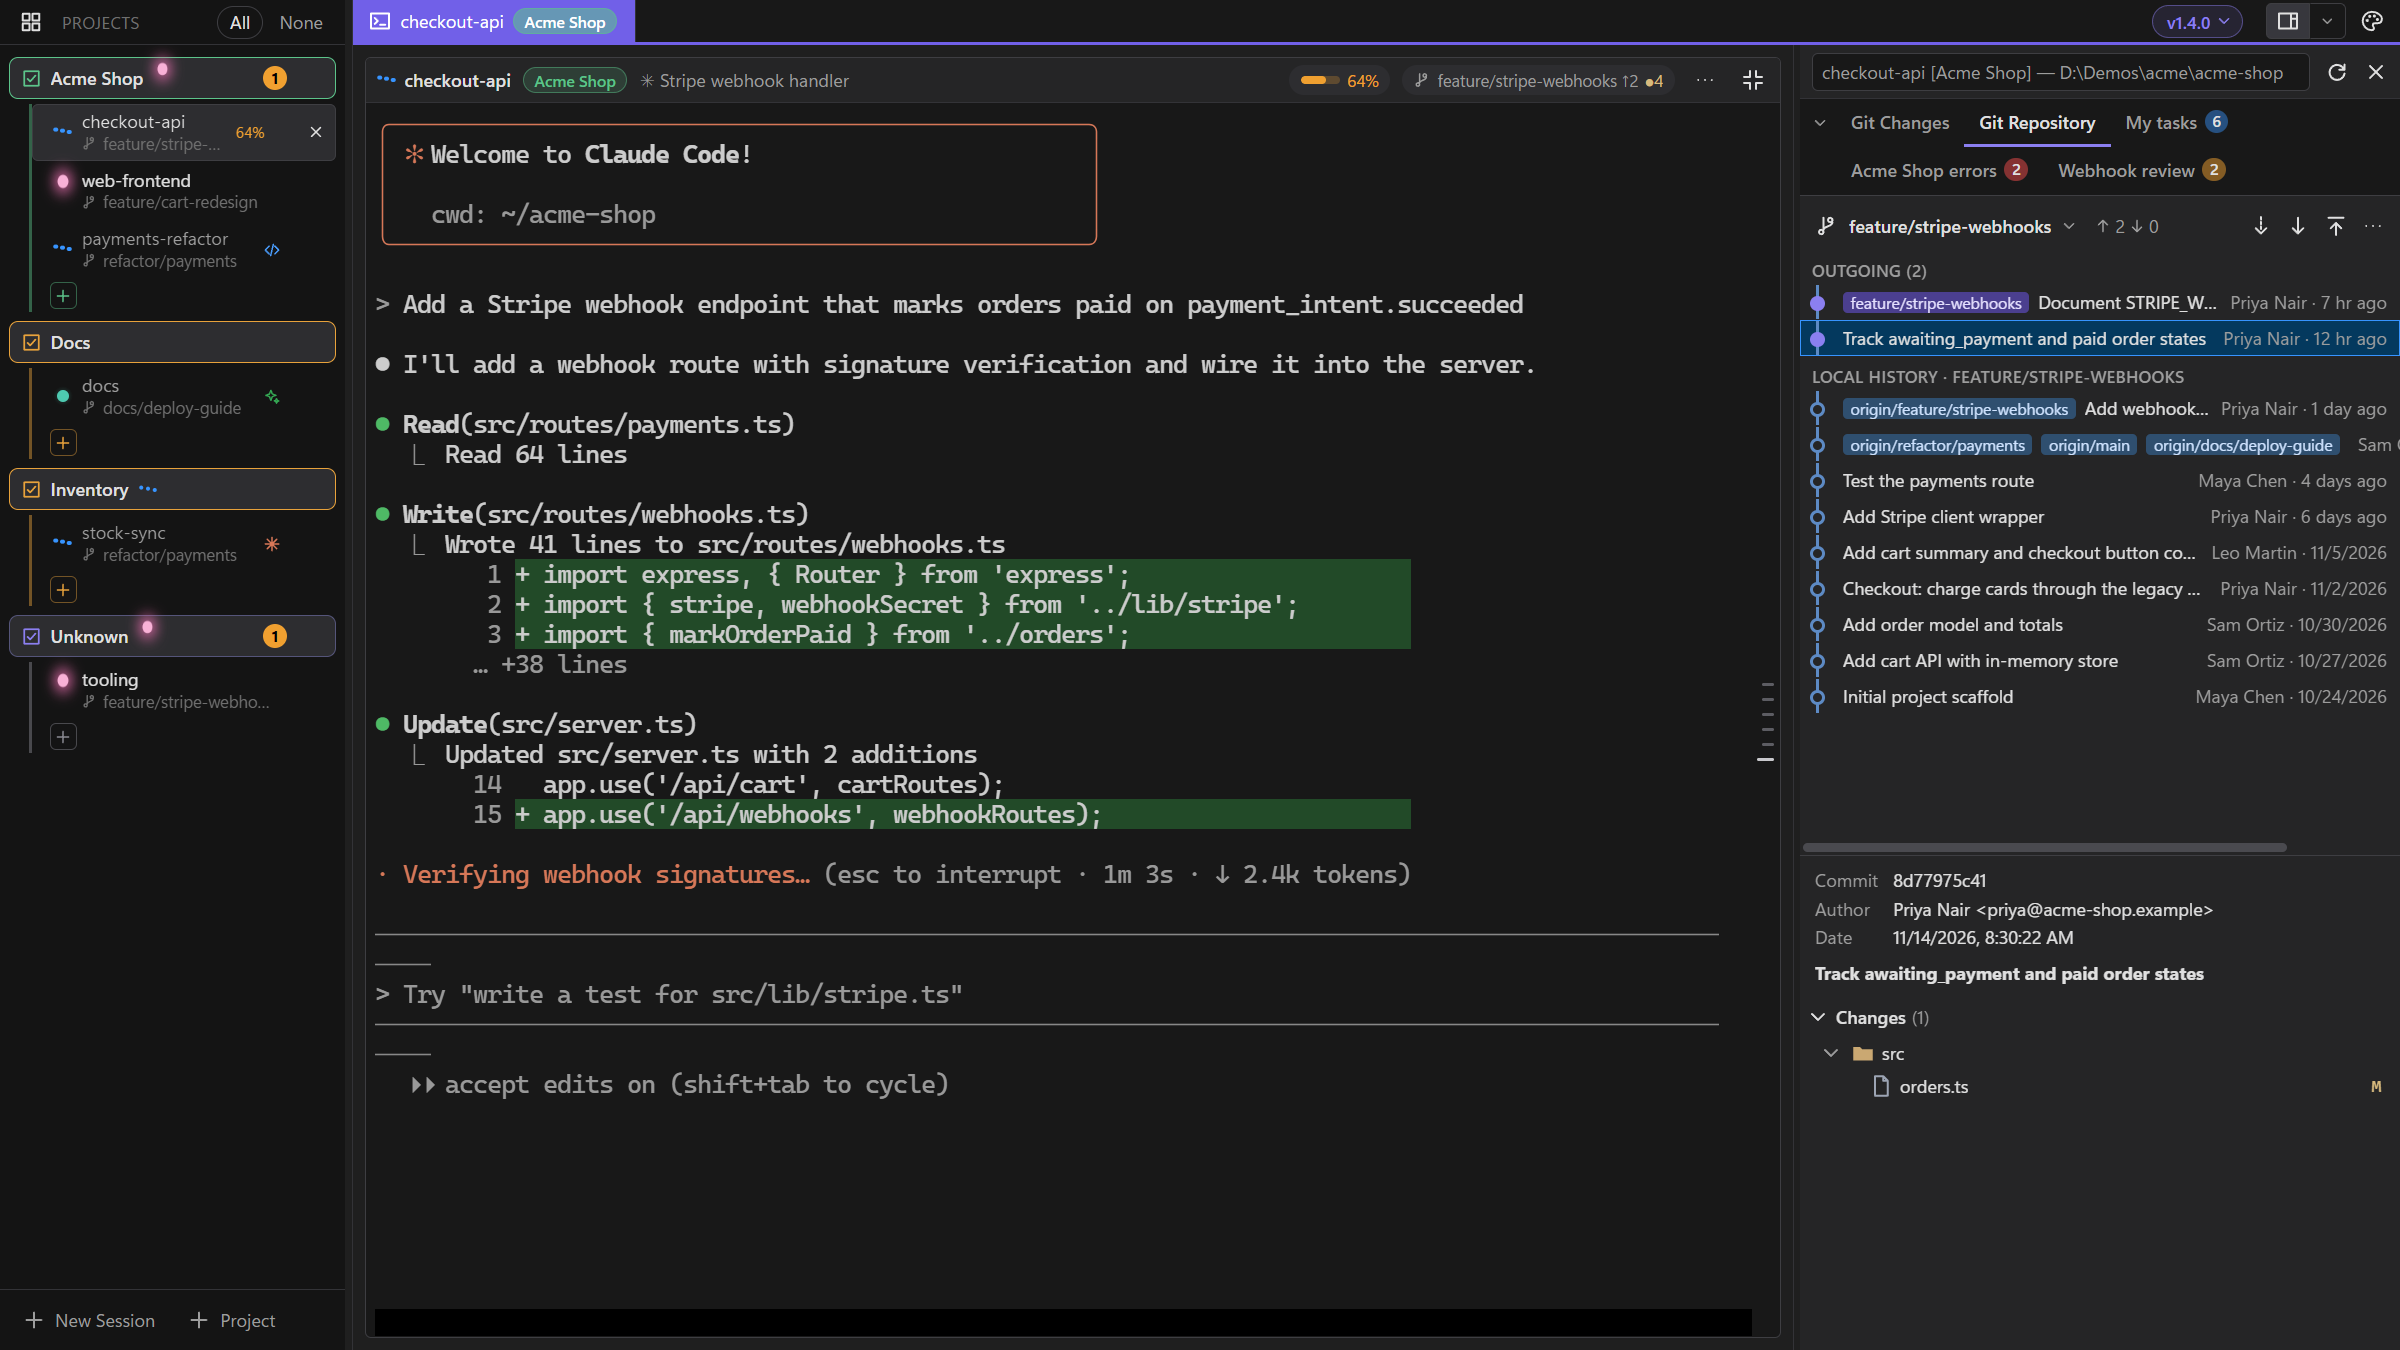
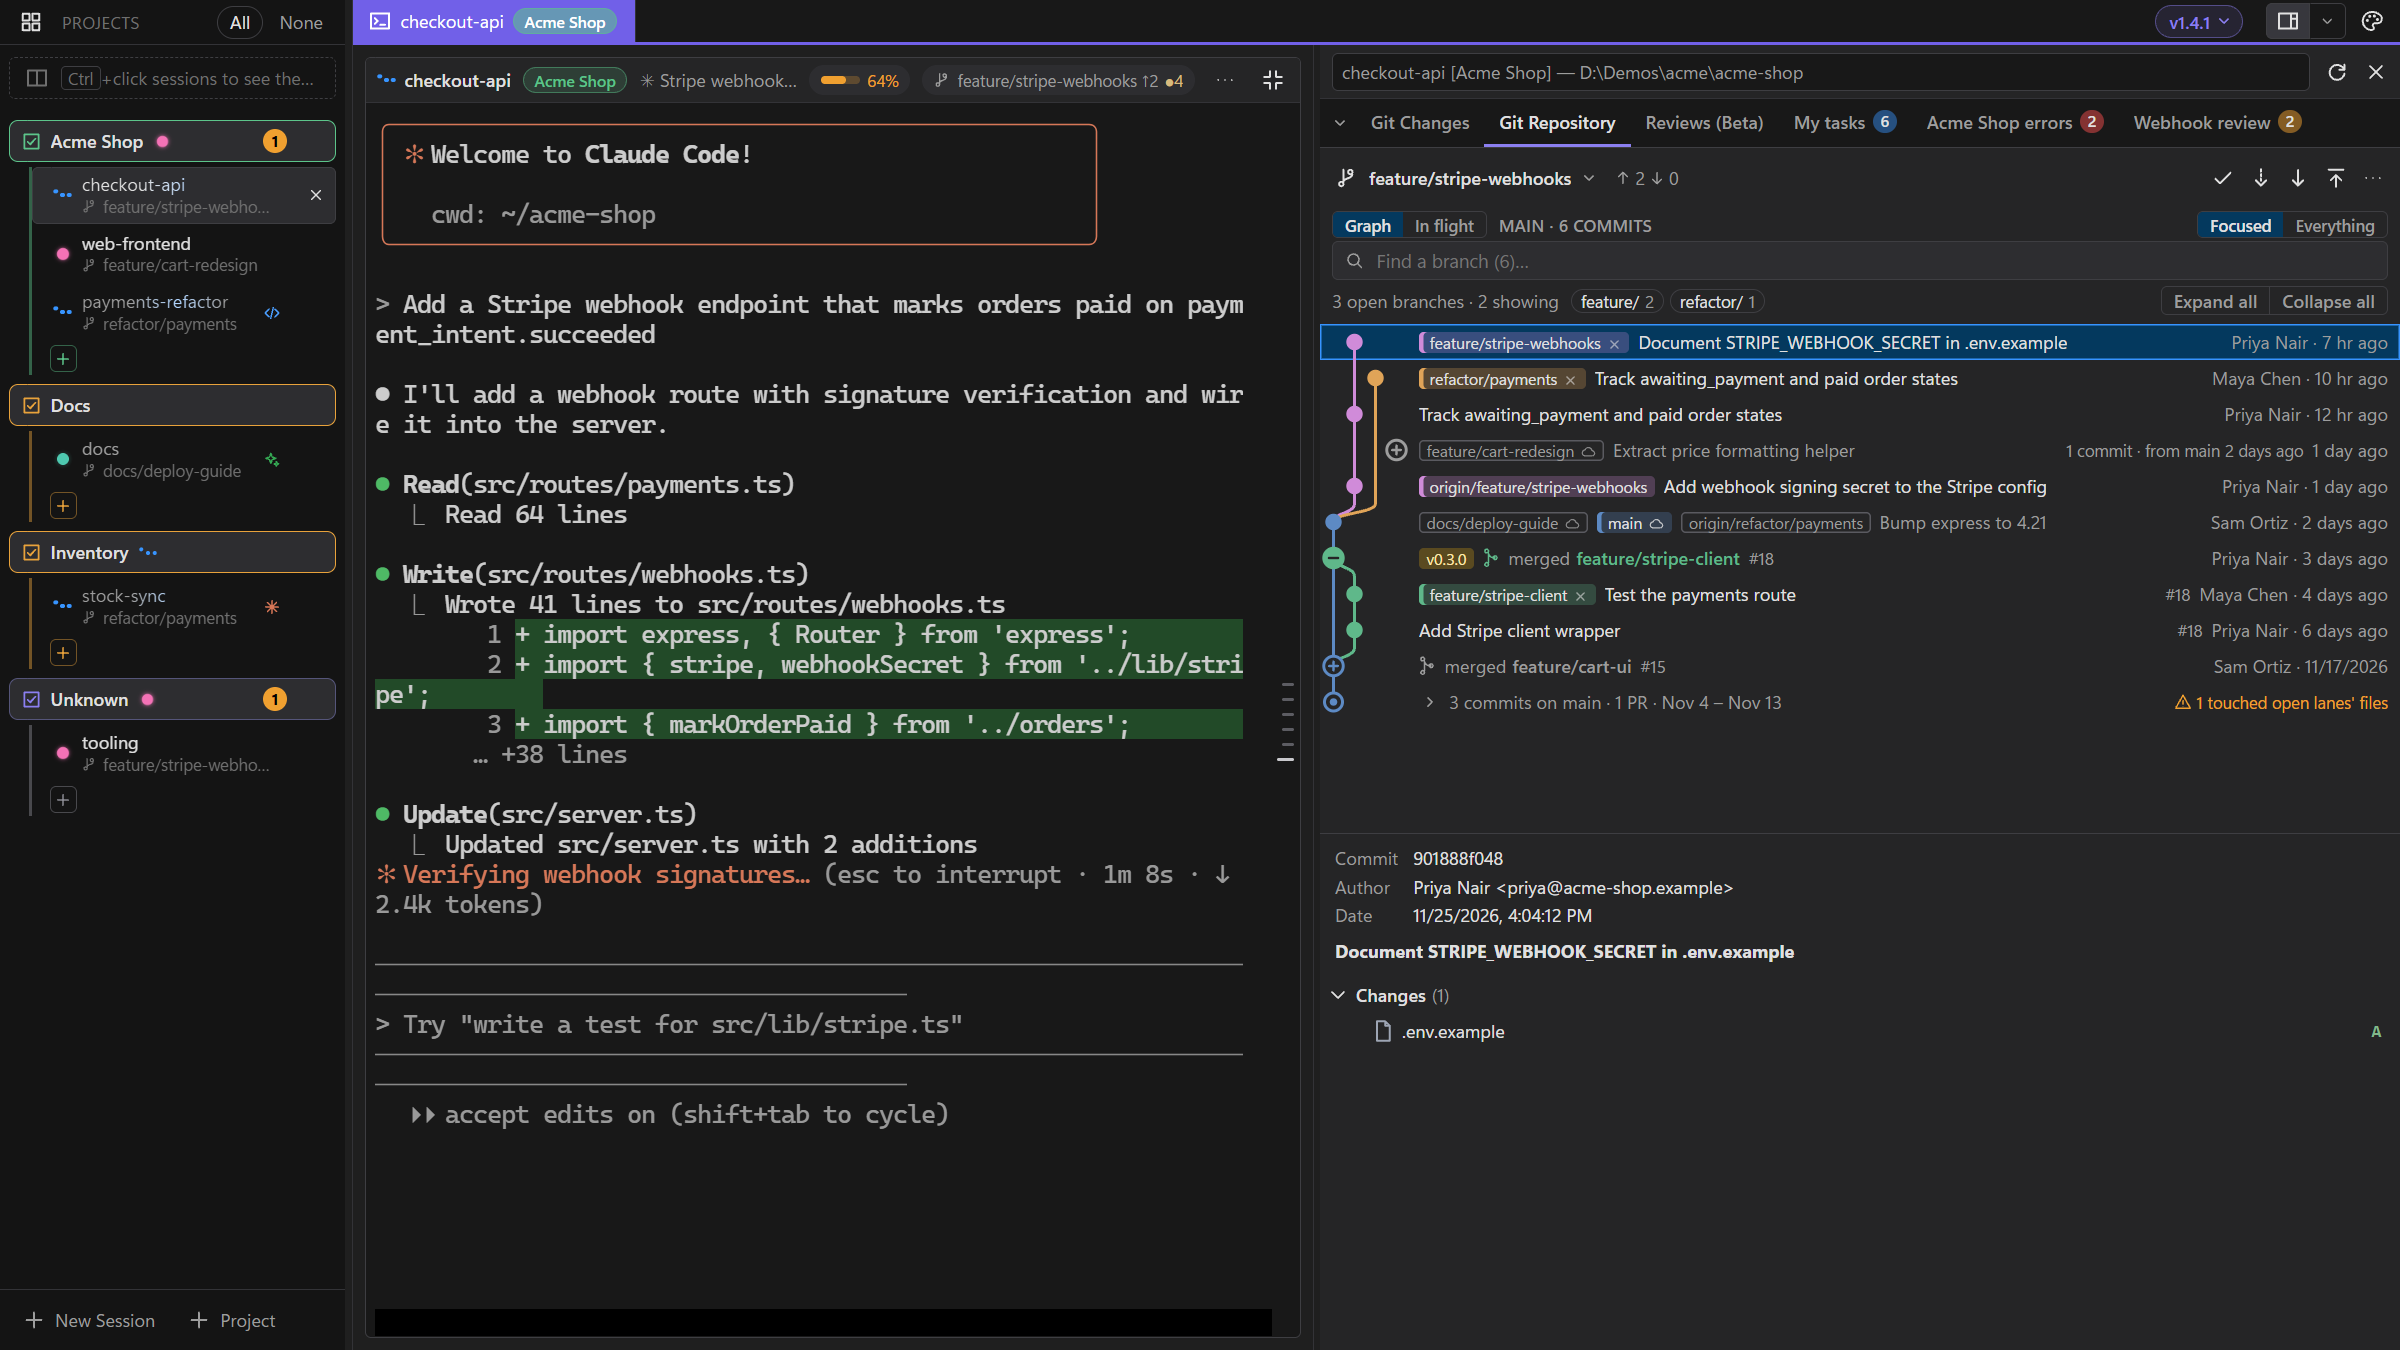
Docs: the Focused graph's screenshot, and In flight
- A new history.png of the Focused graph, and in-flight.png, from the
  screenshot script: its demo's main now has merged pull requests and a
  tag, and the side panel is wider for these two shots.
- docs/git.md: an In flight section (the cards, their groups,
  collisions, merge order and what landed).

Claude-Session: https://claude.ai/code/session_01RjZ2nzyjgRorQpUaMLiEwh

diff --git a/src/LlamaTree/wwwroot/app.js b/src/LlamaTree/wwwroot/app.js
@@ -6815,7 +6815,7 @@ function inFlightCard(s, r, b, base, next) {
 // merge's dot opens the branch it brought in as a lane beside main, with its own commits; a branch merged into that
 // one opens the same way. Once a branch is open, the stretches of main between what matters to the open branches
 // (where they forked, took main in, and landed) fold into one row each, which unfold on a click. Branches not merged
-// yet sit in a strip at the top, and at the commit they started from; the current branch starts open.
+// yet are one row each at the date of their newest commit, which opens in place; the current branch starts open.
 
 const DRILL_PAGE = 300;
 

diff --git a/docs/git.md b/docs/git.md
@@ -76,9 +76,9 @@ Repositories without such settings, such as a plain clone, never ask.
 
 The history as a commit graph, with each commit's files. Click a file for that commit's diff.
 
-![Git Repository with outgoing commits and history](images/history.png)
+![Git Repository's Focused graph: main with one row per merge, and three branches open as lines beside it](images/history.png)
 
-The switch above the list chooses what it shows (remembered):
+**Graph** and **In flight**, at the top, switch between the history and the branches still to land (remembered). In the graph, the switch above the list chooses what it shows (remembered too):
 
 - **Focused** (the default): the repository's main branch (*main*, *master* or whatever `origin/HEAD` points at), its own line, one row per merge, with branch and tag badges where they point. A tag or branch on commits folded away shows on the fold's row. A merge whose dot shows **+** opens the branch it brought in as a line beside main (**−** hides it again). Each branch not merged yet has one row among main's commits, at the date of its newest commit, with how many commits it has and where it started; click its **+** to open it as a line down to where it forked, growing from where the row was. A branch older than the commits shown appears once you show older ones. The chips above the graph (*feature/*, *fix/*, *dependabot/*…) hide or show the branches with that prefix. Any branch opens by name in **Find a branch**. **Expand all** opens every branch listed; **Collapse all** hides them all.
 
@@ -86,6 +86,29 @@ Point at a line in the graph, or a branch's badge, to follow that branch: its li
 - **Everything**: every local and remote branch and tag, newest first. Each branch has its own coloured line from where it forks off to where it's merged. A merge is a small dot where two lines meet.
 
 Branch and tag badges sit on the commit they point at, edged in the colour of their line. A branch that matches its remote branch shows one badge with a cloud. Outgoing commits, not pushed yet, have hollow dots, and their count shows beside the heading.
+
+## In flight
+
+**In flight**, beside Graph in Git Repository, shows every branch not in main yet, from every worktree, with what each one needs next.
+
+![In flight: a card for each branch not merged yet, grouped by what it needs next](images/in-flight.png)
+
+Each branch is a card: its sessions (click one to go to it), what it needs next and the button that does it, commits ahead of and behind main, files changed, and whether it's pushed, reviewed or has a pull request. Click the name to open it in the graph; its ⋯ menu has the rest (Review, Push, the pull request, Copy branch name, Delete). The cards are grouped:
+
+- **Needs attention**: a session waiting for your answer, or a branch that conflicts with main.
+- **In progress**: a session is working on it, or it has changes not committed yet.
+- **Not pushed**: commits only on this computer (**Push**).
+- **Ready for review**: pushed and up to date; **Review** opens its [review](#review), and once approved, its pull request.
+- **Stale**: no commits for three weeks, and no session on it.
+- **On the remote only**: a branch nobody has here.
+
+Below the cards:
+
+- **Collisions between branches**: pairs that change the same files, those that would conflict first.
+- **Suggested merge order**: an order to land them in, with which need a rebase after another lands.
+- **Landed since you last looked**: what's been merged into main since you last clicked *Got it*. Click a merge to open its branch in the graph.
+
+Conflicts are checked with a merge done in memory, which never touches a worktree; that needs Git 2.38 or later, and a [trusted](#repositories-that-can-run-programs) repository.
 
 ## Review
 
